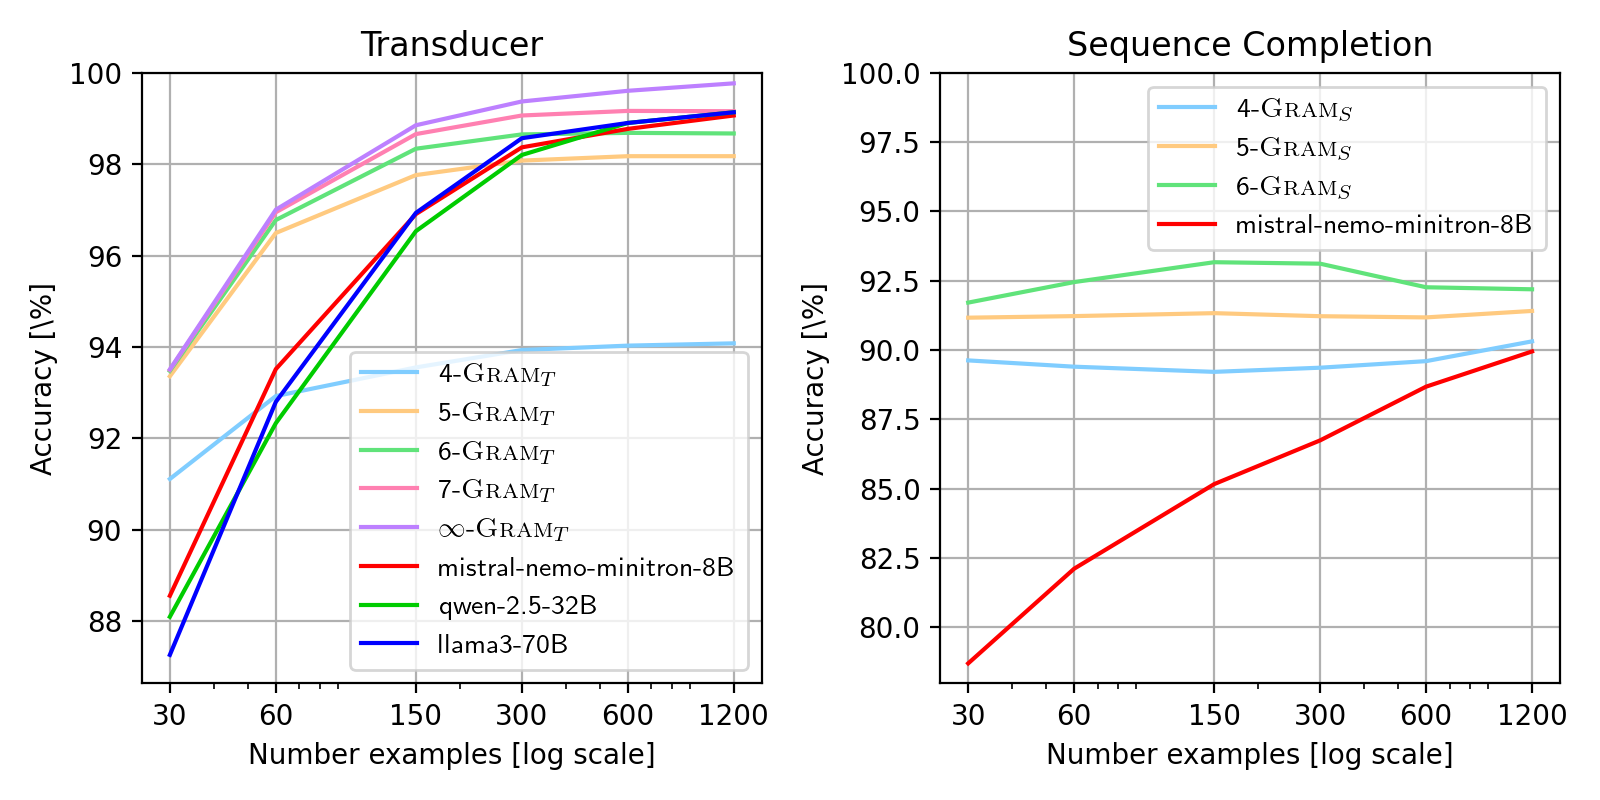
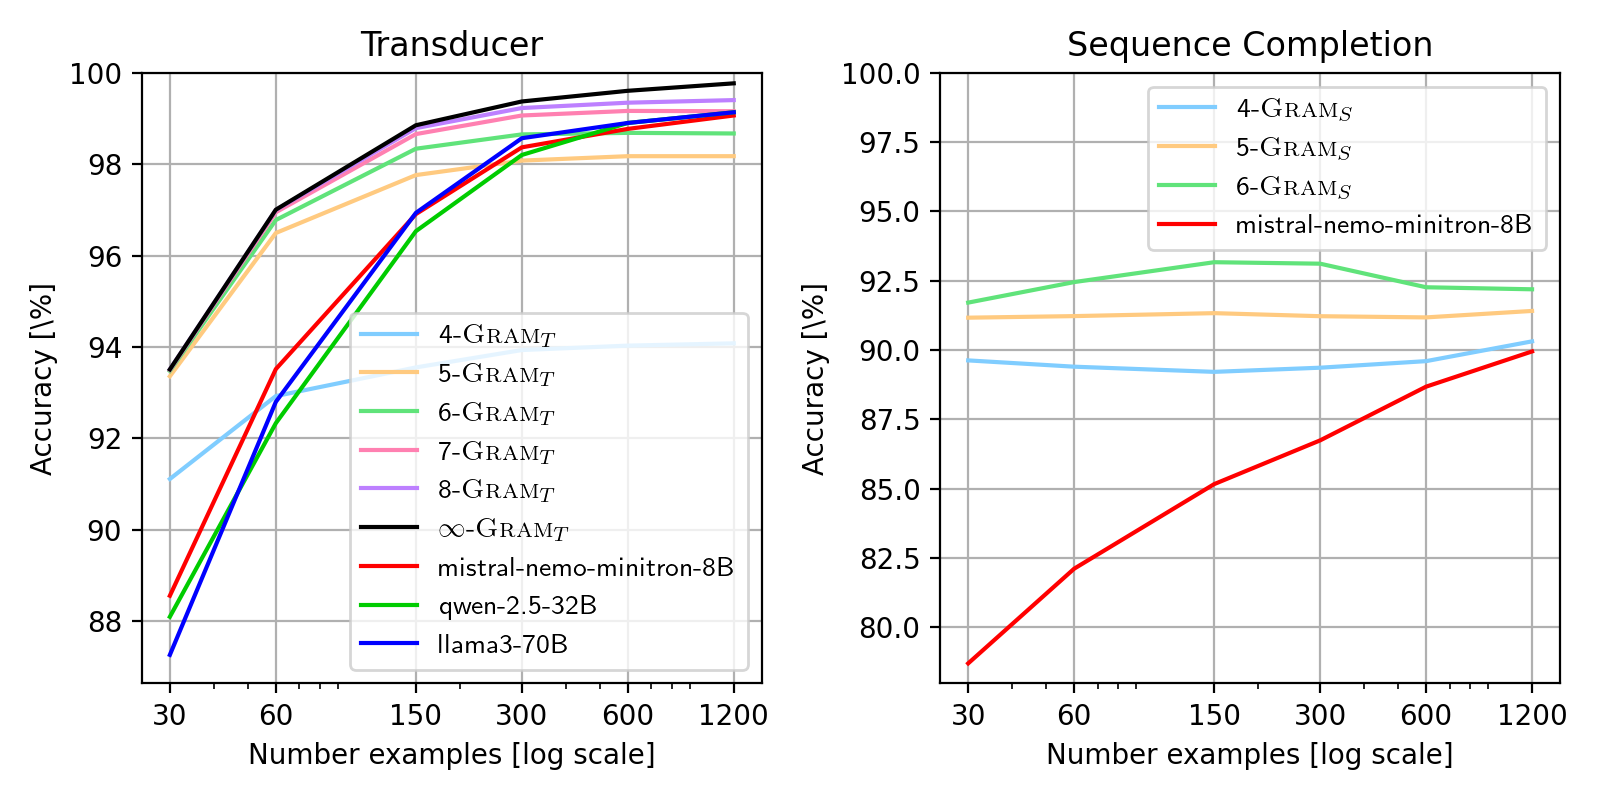
8gram in the more examples per problem experiment (#171)

Pull request: 8gram in the more examples per problem experiment

diff --git a/evallm/experiments/transducer_summary.py b/evallm/experiments/transducer_summary.py
@@ -137,7 +137,7 @@ def compute_deterministic_baseline_outcomes(
             ]
         for ngram in range(min_gram, 1 + max_gram):
             accuracies[rf"{ngram}-\textsc{{Gram}}$_T$"][no_prompt] = [
-                r.kgram_success_rates_each[ngram - 2]
+                ngram_success_rate(r, ngram)
                 for r in deterministic_baseline_outcomes
             ]
         if include_infinity_gram:
@@ -157,6 +157,11 @@ def compute_deterministic_baseline_outcomes(
             )
     return accuracies
 
+def ngram_success_rate(r, ngram):
+    successes = r.kgram_success_rates_each
+    if ngram - 2 < len(successes):
+        return successes[ngram - 2]
+    return successes[-1]
 
 def compute_model_results(model_outcomes, *, accuracy_summary):
     accuracies = defaultdict(dict)